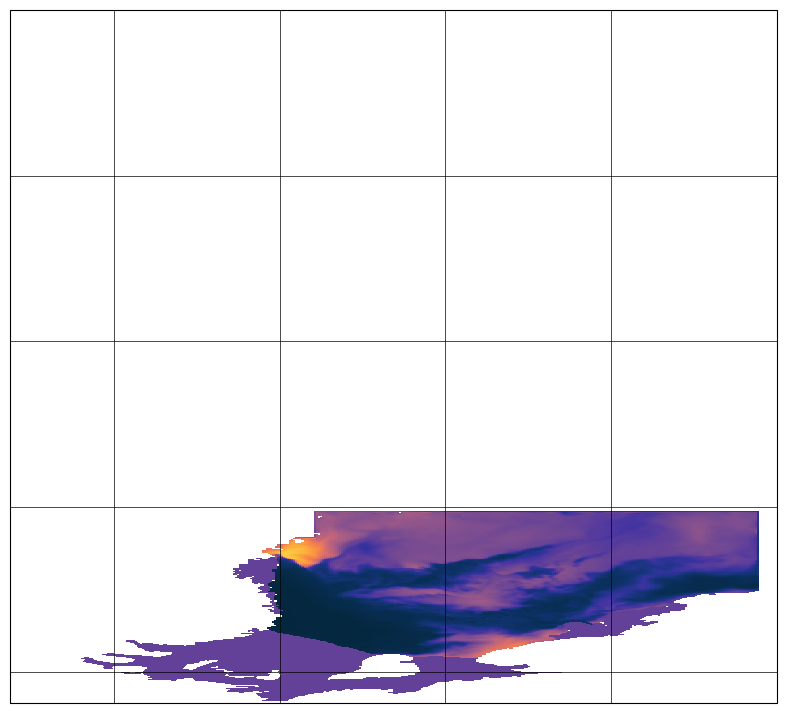
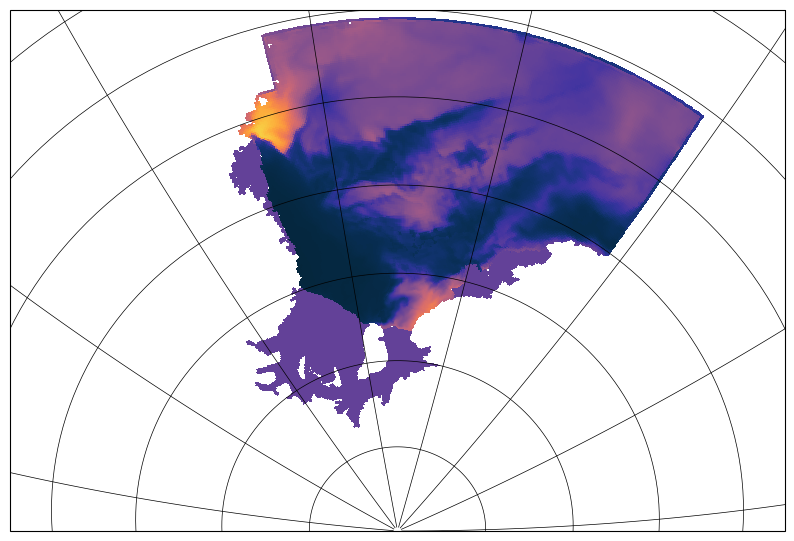
modif plot

diff --git a/one_plot_WED025.py b/one_plot_WED025.py
@@ -21,11 +21,11 @@ lat=mask.gphit[0]
 tmask=mask.tmaskutil
 datam=np.ma.array(data,mask=1-tmask)
 
-#projection=ccrs.Orthographic(central_latitude=-70.0, central_longitude=-40.0)
-projection=ccrs.PlateCarree()
+projection=ccrs.Orthographic(central_latitude=-70.0, central_longitude=-40.0)
+#projection=ccrs.PlateCarree()
 fig, ax = plt.subplots(subplot_kw=dict(projection=projection), figsize=(10,9))
 #ax.set_global()
-#ax.set_extent([-150, -20, -90, 90], crs=ccrs.PlateCarree())
+ax.set_extent([-90, 10, -90, -60], crs=ccrs.PlateCarree())
 
 #-- add coastal outlines
 #ax.add_feature(cfeature.COASTLINE.with_scale('50m'), linewidth=0.5)
